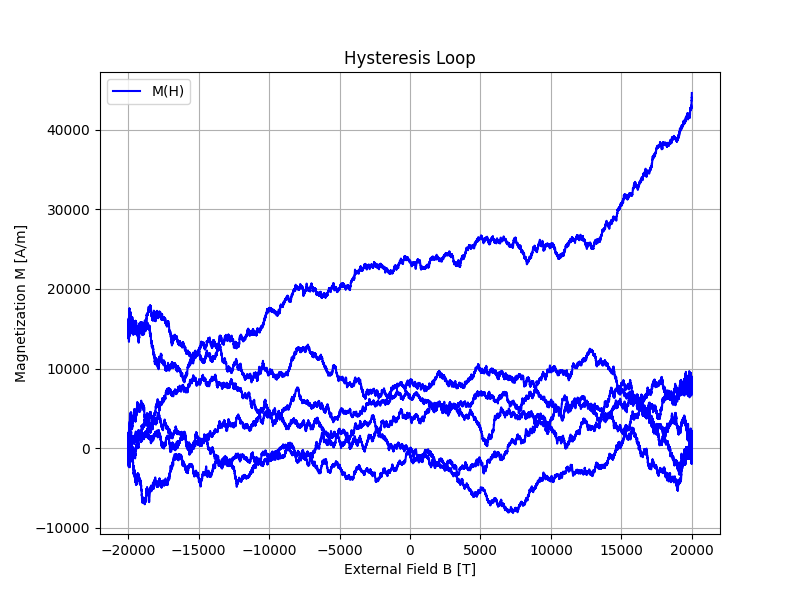
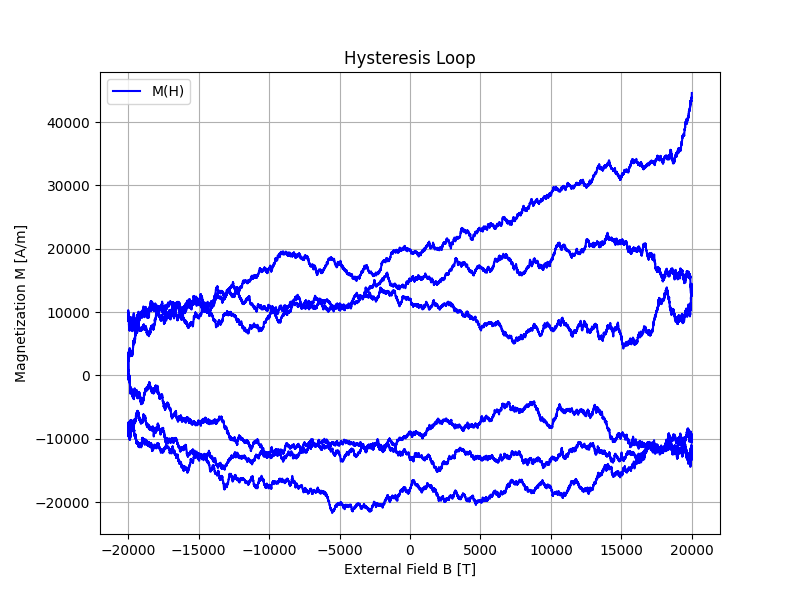
Change structural code

diff --git a/run.py b/run.py
@@ -1,0 +1,37 @@
+"""
+Main entry point for Hyperthermia MINT Simulation.
+Reads input.txt to determine execution channel.
+"""
+import sys
+import os
+from src.config import parse_config_file
+
+def main():
+    # 1. Read input configuration
+    config = parse_config_file("input.txt")
+    channel = config.get('channel', 'simulation')  # Default to simulation if not specified
+    
+    print(f"Project Runner: Executing channel '{channel}'")
+    
+    if channel == 'simulation':
+        from src.simulation_runner import main as run_simulation
+        run_simulation()
+        
+    elif channel == 'analysis_size':
+        from src.analyze_size import run as run_analysis
+        run_analysis()
+        
+    elif channel == 'custom_analysis':
+        # Reserved for future custom loops
+        try:
+            from src import custom_analysis
+            custom_analysis.run()
+        except ImportError:
+            print("Error: 'custom_analysis' module not implemented yet.")
+            
+    else:
+        print(f"Error: Unknown channel '{channel}'. Available: simulation, analysis_size, custom_analysis")
+        sys.exit(1)
+
+if __name__ == "__main__":
+    main()

diff --git a/hdr/loop_parameters.py b/hdr/loop_parameters.py
@@ -1,0 +1,10 @@
+"""
+Parameters for continuous runs or parameter sweeps.
+Functionality to be implemented in custom_analysis channel.
+"""
+
+# Example: List of frequencies to sweep
+sweep_frequencies = [100e3, 200e3, 300e3]
+
+# Example: List of field amplitudes to sweep
+sweep_amplitudes = [10, 20, 30] # mT

diff --git a/hdr/constants.py b/hdr/constants.py
@@ -1,0 +1,6 @@
+import numpy as np
+
+class Constants:
+    """Physical constants used in the simulation."""
+    mu0 = 4 * np.pi * 1e-7      # Vacuum permeability [T*m/A] (approx 1.2566e-6)
+    kB = 1.380649e-23           # Boltzmann constant [J/K]